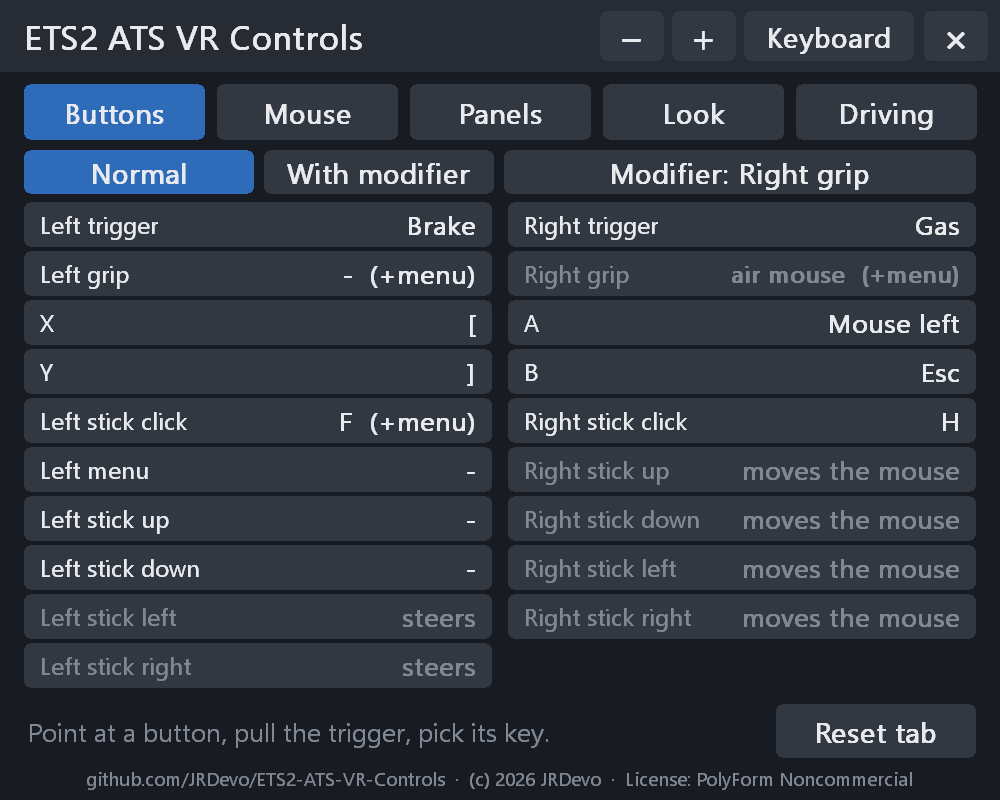
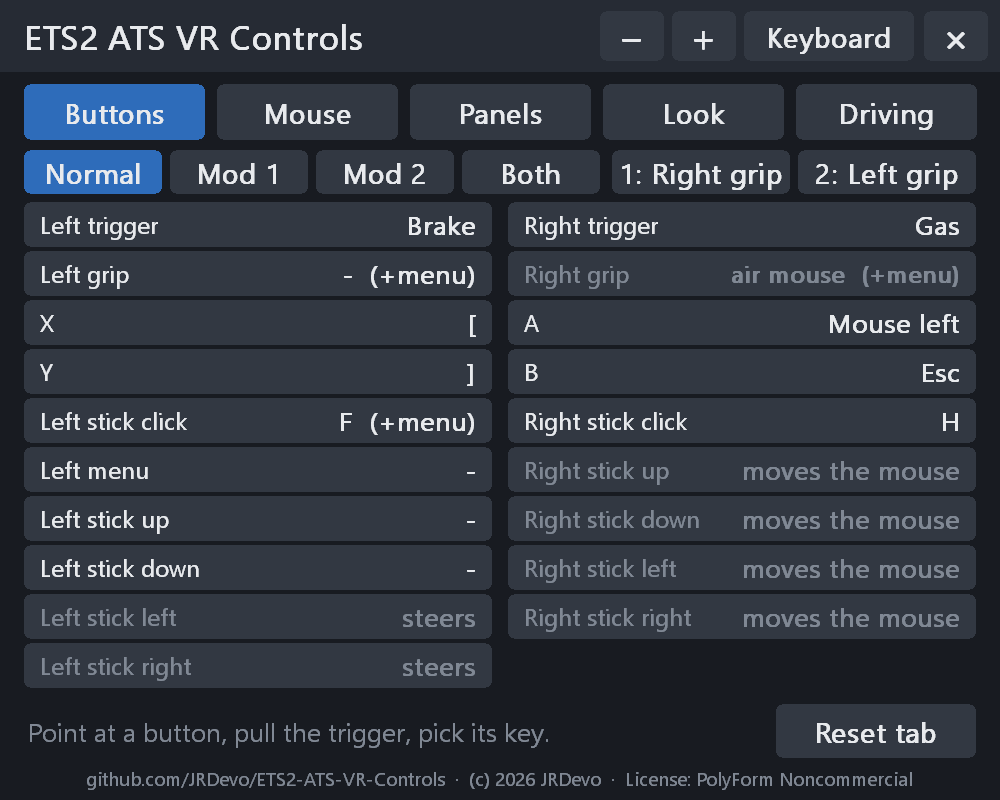
Version 0.2.0: README and screenshots for the three ways to steer and the four button layers
README: status v0.2.0; the Driving tab with Wheel and with Point on top of the screenshots; the Buttons tab caption
names the layers (Normal / Mod 1 / Mod 2 / Both); "Driving with the controllers"; the Driving tab text lists Steer
with, the hand angle, Stick on / off, Hold the wheel with, Hand that points; the download step names the v0.2.0 zip.
docs/images: every menu / keyboard picture regenerated from vr_menu_test (new: menu-driving-wheel, menu-driving-point;
the keyboard now shows PrtSc / Pause). vr_menu_test writes the two new shots. CLAUDE.md: the v0.2.0 facts.

Changed region(s): [[0.031, 0.1875, 0.558, 0.25], [0.589, 0.1875, 0.961, 0.25]]

diff --git a/tests/vr_menu_test.cpp b/tests/vr_menu_test.cpp
@@ -668,6 +668,14 @@ int main(int argc, char** argv) {
             }
             CHECK(missing == 0, "every button / row / tab has a help text (%d without)", missing);
         }
+        press(VrMenu::kPanMenu, VrMenu::eTab, 4);           // the Driving tab with the hands: Wheel, then Point (then the stick again)
+        press(VrMenu::kPanMenu, VrMenu::eSet, 156);
+        settle(away);
+        WriteBmp(shots + L"\\menu-driving-wheel.bmp", ms, VrMenu::kPanMenu);
+        press(VrMenu::kPanMenu, VrMenu::eSet, 157);
+        settle(away);
+        WriteBmp(shots + L"\\menu-driving-point.bmp", ms, VrMenu::kPanMenu);
+        press(VrMenu::kPanMenu, VrMenu::eSet, 155);
         press(VrMenu::kPanMenu, VrMenu::eTab, 0);
         press(VrMenu::kPanMenu, VrMenu::eSet, 121);         // the modifier layer (default: right grip + right trigger = right click)
         settle(away);

diff --git a/README.md b/README.md
@@ -15,9 +15,10 @@ No steering wheel, no gamepad, no keyboard, no mouse, no extra hardware.
 Start the game in VR, put the headset on, and play. You never need to reach for the desk.
 
 > [!NOTE]
-> **Status:** v0.1.0, the first release: controller buttons as keys and mouse, **a VR menu and a full keyboard in the
-> headset**, and **driving with the controllers** (smooth steering, gas and brake). Planned: the keyboard pinned to the
-> cab, and single buttons you place anywhere (for example over a cab switch) that press a key.
+> **Status:** v0.2.0: controller buttons as keys and mouse in **four layers**, **a VR menu and a full keyboard in the
+> headset**, and **driving with the controllers** -- steer with the **stick**, a **wheel held with one or both hands**, or
+> by **pointing**; gas and brake on the triggers. Planned: the keyboard pinned to the cab, and single buttons you place
+> anywhere (for example over a cab switch) that press a key.
 
 > [!IMPORTANT]
 > **OpenXR only.** The mod works when the game runs in its **OpenXR** VR mode (`-openxr`). It does not work in the game's
@@ -26,17 +27,21 @@ Start the game in VR, put the headset on, and play. You never need to reach for 
 
 ## Screenshots
 
-| Buttons tab: picking a key | Buttons tab: with the modifier | Mouse tab |
+| Driving tab: steer with the Wheel | Driving tab: steer by Pointing | Driving tab: the Stick |
 |---|---|---|
-| ![The Buttons tab while a key is picked](docs/images/menu-pick.png) | ![The Buttons tab, with modifier](docs/images/menu-modifier.png) | ![The Mouse tab](docs/images/menu-mouse.png) |
+| ![The Driving tab with Wheel: hand turn for full lock, Stick on / off, hold the wheel with both / left / right / either grip](docs/images/menu-driving-wheel.png) | ![The Driving tab with Point: point angle for full lock, Stick on / off, the hand that points](docs/images/menu-driving-point.png) | ![The Driving tab with the stick](docs/images/menu-driving.png) |
+
+| Buttons tab: picking a key | Buttons tab: the Mod 1 layer (Normal / Mod 1 / Mod 2 / Both) | Mouse tab |
+|---|---|---|
+| ![The Buttons tab while a key is picked](docs/images/menu-pick.png) | ![The Buttons tab, the Mod 1 layer](docs/images/menu-modifier.png) | ![The Mouse tab](docs/images/menu-mouse.png) |
 
 | Panels tab | Look tab | The keyboard |
 |---|---|---|
 | ![The Panels tab](docs/images/menu-panels.png) | ![The Look tab](docs/images/menu-look.png) | ![The on-screen keyboard](docs/images/keyboard.png) |
 
-| Driving tab | Pointing at a setting: its help at the bottom | The compact keyboard (Panels tab > Compact) |
-|---|---|---|
-| ![The Driving tab](docs/images/menu-driving.png) | ![The Driving tab while the pointer is on "Wheel follows the stick": its help line at the bottom](docs/images/menu-driving-help.png) | ![The compact keyboard](docs/images/keyboard-compact.png) |
+| Pointing at a setting: its help at the bottom | The compact keyboard (Panels tab > Compact) |
+|---|---|
+| ![The Driving tab while the pointer is on "Wheel follows the stick": its help line at the bottom](docs/images/menu-driving-help.png) | ![The compact keyboard](docs/images/keyboard-compact.png) |
 
 ![The white pointer dot on the G key of the keyboard](docs/images/keyboard-pointer.png)
 
@@ -87,8 +92,9 @@ Only one OpenXR runtime is active at a time; the last one you set wins.
   buttons; right grip held = layer 2; left grip held = layer 3; **both grips held = layer 4**. Hold the grip(s) first,
   then press the button. A button with nothing set in a layer does its normal job. (Both grips + the left stick click is
   the menu's own combo: that one never sends a key.)
-- **Driving**: the left stick steers, the right trigger is the gas pedal, the left trigger the brake. Smooth, like a
-  gamepad, not on / off keys. Gas and brake can go on any button. See [Driving](#driving-with-one-controller).
+- **Driving**: three ways to steer -- the left stick (default), a **wheel** you hold with one or both grips, or
+  **pointing** a controller left / right. The right trigger is the gas pedal, the left trigger the brake. Smooth, not on /
+  off keys. Gas and brake can go on any button. See [Driving](#driving-with-one-controller).
 - **VR menu + keyboard**: hold both grips + the left stick click for 1 second. A menu opens in front of you. See [The VR menu](#the-vr-menu).
 - The game's own VR controls (the trigger and the left menu button) still work.
 - It only works in the games named in `config.ini`. In every other VR program it does nothing.
@@ -144,7 +150,7 @@ function to a controller button instead (for example `y = l` for the lights).
 
 <a name="driving-with-one-controller"></a>
 <details>
-<summary><h2>Driving with one controller</h2></summary>
+<summary><h2>Driving with the controllers</h2></summary>
 
 By default:
 
@@ -269,8 +275,10 @@ a laser pointer. A **white dot** appears where you point, and the key under it l
 - **Mouse** tab: which stick moves the mouse, its speed and dead zone, the air mouse button, hold or toggle, its speed.
 - **Panels** tab: menu size, keyboard size, show / hide the keyboard, bring both in front of you.
 - **Panels** tab also: the distance of each panel (Closer / Farther).
-- **Driving** tab: driving on / off, the stick that steers (left / right / off), the dead zone, small turns, how far the wheel
-  turns, how quickly it follows the stick and comes back, its top speed, and speed-sensitive steering. Gas and brake: any button, Buttons tab. See [Driving](#driving-with-one-controller).
+- **Driving** tab: **Steer with** Stick / Wheel / Point / Off; for Wheel and Point the hand angle for full lock, Stick on /
+  off, and which grips hold the wheel (Both / Left / Right / Either) or which hand points (Left / Right); for the stick
+  the stick that steers, the dead zone, small turns, how far the wheel turns, how quickly it follows the stick and comes
+  back, its top speed; and speed-sensitive steering. Gas and brake: any button, Buttons tab. See [Driving](#driving-with-one-controller).
 - **Look** tab: colours (Dark, Blue, Grey, Light, Black, Green), how see-through the menu and the keyboard are, and
   **pointer smoothing** (Off / Low / Medium / High): calms a shaky hand, for the menu pointer and the air mouse.
 - **Reset tab** (bottom right of every tab): puts that tab's settings back to the defaults. Press it twice (the first
@@ -294,7 +302,7 @@ ETS2 / ATS DLAA mod's menu (`Delete`). The menu and keyboard float in the room: 
 <details>
 <summary><h2>Install</h2></summary>
 
-1. Download `ETS2-ATS-VR-Controls-v0.1.0.zip` from the [Releases](../../releases) page. Close the game.
+1. Download `ETS2-ATS-VR-Controls-v0.2.0.zip` from the [Releases](../../releases) page. Close the game.
 2. Unzip the folder to a place where it can stay (for example `C:\ETS2 ATS VR Controls`).
 3. Right-click `install.ps1` > **Run with PowerShell**. Click **Yes** in the Windows admin prompt.
    (Admin is needed: ETS2 / ATS only load VR add-ons that are registered for all users.)

diff --git a/CLAUDE.md b/CLAUDE.md
@@ -38,6 +38,10 @@ Read `README.md` and the header comments of `src/pad_input.h`, `src/layer.cpp`, 
   floats steering / aforward / abackward; no binding in the game needed). The game loads it from
   HKLM\SOFTWARE\SCS Software\<game>\Plugins (install.ps1); the OpenXR loader then gets the same module (same path), so the
   values are shared directly. e2e case `drive`: fake_game --scs plays the game's plugin loader.
+- v0.2.0 (2026-10-24, tested in the game by the user): steer_with = stick / wheel (steer_wheel_grip both / left / right /
+  either: one hand moves round a rim) / point (steer_point_hand); steer_stick_too; a grip that holds the wheel is ONLY the
+  wheel (Mapper::WheelHands). Four button layers: modifier (rgrip) + modifier2 (lgrip). README screenshots come from
+  vr_menu_test (build\menu_test\shots\*.bmp -> docs\images\*.png; keyboard-pointer gets the dot from shot_pointer.txt).
 - User: Quest 3 via Virtual Desktop (VDXR). Also installed: the DLAA mod (dinput8.dll, hooks OpenXR at the runtime too),
   VR EyeCapture (implicit layer), VectorXR.
 
